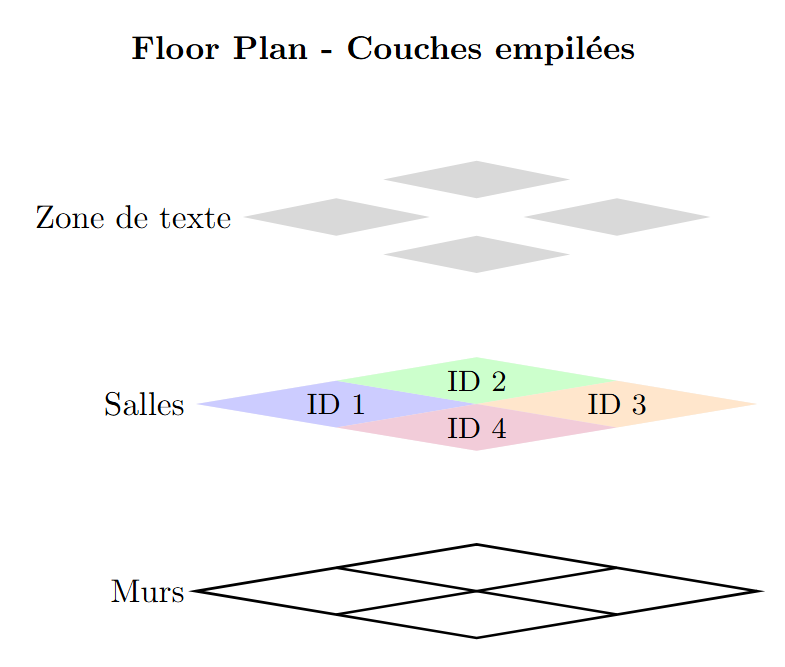
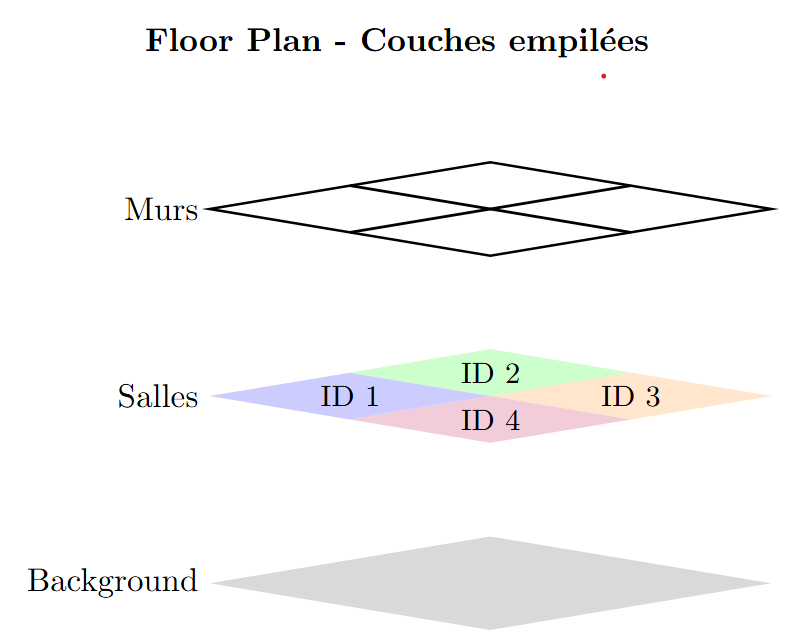
Debug

diff --git a/Pages/plans.html b/Pages/plans.html
@@ -29,12 +29,11 @@
 <ul class="menu">
 
     <!-- RENDU FINAL -->
-    <li>
-        <h2>Rendu final</h2>
+    <li><h2>Résultat Attendu</h2>
         <div style="text-align:center;">
-            <img src="../images/floorplan_example.png" alt="Schéma floorplan"
-                 style="max-width: 60%; height: auto;">
-            <p>Plan interactif montrant les températures actuelles d’un étage</p>
+            <img src="../images/plan_inkscape.png" alt="Schéma floorplan"
+                    style="max-width: 70%; height: auto;">
+            <p>Structure du plan (Les couches inférieur doivent être créer en première)</p>
         </div>
     </li>
 
@@ -71,7 +70,7 @@
 
             <div style="text-align:center;">
                 <img src="../images/schema_floorplan.png" alt="Exemple floorplan"
-                     style="max-width: 70%; height: auto;">
+                     style="max-width: 60%; height: auto;">
                 <p>Structure du plan (Les couches inférieur doivent être créer en première)</p>
             </div>
 
@@ -95,13 +94,17 @@
                 ⚠ Attention : bien définir les <strong>ID</strong> et pas seulement les <strong>tags</strong>.
             </div>
 
-            <div style="text-align:center;">
-                <img src="../images/example id.jpeg" alt="Schéma floorplan"
-                     style="max-width: 70%; height: auto;">
+                   <div style="display: flex; gap: 20px; align-items: flex-start;">
+        <div style="flex: 1; text-align: center;">
+            <img src="../images/example id.jpeg" alt="Schéma floorplan"
+                     style="max-width: 60%; height: auto;">
                 <p>Exemple d’identification</p>
-            </div>
+        </div>
+
+        <hr>
 
         </div>
+
     </li>
 
     <!-- HOME ASSISTANT -->
@@ -113,61 +116,37 @@
             <li><strong>1.</strong> Préparer ton fichier SVG (avec IDs)</li>
 
             <li><strong>2.</strong> Uploader dans :
-                <code>/config/www/NomDuBatiment/floorplan.svg</code>
+                <code>/config/www/floorplan/NomDuBatiment</code>
             </li>
 
-            <li><strong>3.</strong> Accès via :
-                <code>/local/NomDuBatiment/floorplan.svg</code>
+            <li><strong>3.</strong> Vérifier que le fichier plan.yaml est dans le dossier
+                <code>/config/www/floorplan/NomDuBatiment</code>
             </li>
 
-            <li><strong>4.</strong> ⚠ Ne PAS utiliser la carte Image</li>
-
-            <li><strong>5.</strong> Utiliser une carte custom :
-                <code>canvas-animated-card</code> ou <code>floorplan-card</code>
-            </li>
+            
         </ul>
 
-        <p><strong>Exemple avec canvas-animated-card :</strong></p>
-
-        <pre><code>
-                type: custom:canvas-animated-card
-                image: /local/NomDuBatiment/floorplan.svg
-        </code></pre>
-
-        <div class="warning">
-            ⚠ La carte Image classique ne permet pas d’exploiter les IDs du SVG.
-            Pour un floorplan interactif, il faut utiliser une carte personnalisée.
-        </div>
-
-        <div style="text-align:center;">
-            <img src="../images/en_cours.jpg" alt="Rendu Home Assistant"
-                 style="max-width: 70%; height: auto;">
-            <p>Rendu dans Home Assistant</p>
-        </div>
 
     </div>
 </li>
 
-    <!-- CANVAS CARD -->
-    <li>
-        <h2>Installation de canvas-animated-card</h2>
-        <div id="canvas" class="section">
+<li>
+     <h2>Résultat final dans Home Assistant</h2>
+     <p>
+         Une fois les capteurs connectés, les salles se coloreront automatiquement et les températures apparaîtront. 
+     </p>
+        <div id="Résultat" class="section">
 
-            <ul>
-                <li>Créer le dossier : <code>/config/www</code></li>
-                <li>Ajouter le fichier : <code>/config/www/canvas-animated-card.js</code></li>
-                <li>Ajouter la ressource : <code>/local/canvas-animated-card.js</code> (type : JavaScript Module)</li>
-                <li>Créer un dashboard dans Home Assistant</li>
-                <li>Ajouter une carte → Manual</li>
-                <li>Coller ce code YAML :</li>
-            </ul>
-
-            <pre><code>
-            type: "custom:canvas-animated-card"
-            </code></pre>
-
+        <div style="display: flex; gap: 20px; align-items: flex-start;">
+        <div style="flex: 1; text-align: center;">
+            <img src="../images/plan_inkscape.png" alt="Suivi temporel" 
+                style="max-width: 80%; height: auto; object-fit: contain;">
+            <p>Plan complet</p>
         </div>
-    </li>
+        </div>
+    </div>
+
+</li>
 
 </ul>
 

diff --git a/Pages/capteurs.html b/Pages/capteurs.html
@@ -78,7 +78,7 @@ Dans cette section, les deux approches seront abordées. À noter qu’il existe
 
   <p><strong>Intérêt de OWServer :</strong></p>
   <p>
-    OWServer (faisant partie de :contentReference[oaicite:1]{index=1}) permet de centraliser l'accès aux capteurs One-Wire.
+    OWServer permet de centraliser l'accès aux capteurs One-Wire.
     Il agit comme un serveur qui expose les capteurs (température, humidité, etc.) via le réseau ou en local.
     Cela permet à plusieurs applications ou machines d'accéder aux capteurs sans connexion directe au bus 1-Wire.
   </p>
@@ -99,10 +99,10 @@ Dans cette section, les deux approches seront abordées. À noter qu’il existe
     <p>Ajouter ou modifier les lignes suivantes :</p>
 
     <div class="command">
-      !server : server: localhost:4304<br>
-      server: w1<br>
+      <s>server: FAKE = DS18S20,DS2405</s> -> server: w1<br>
+      ###################### OWSERVER ######################<br>
       server: port = localhost:4304<br>
-      server: address = 0.0.0.0
+      server: adress = 0.0.0.0
     </div>
 
     <p>Redémarrer le serveur :</p>
@@ -115,6 +115,20 @@ Dans cette section, les deux approches seront abordées. À noter qu’il existe
       sudo systemctl status owserver
     </div>
 
+    <p>
+        Modifier ensuite le fichier de configuration :
+        </p>
+
+        <div class="command">
+sudo nano /boot/firmware/config.txt
+        </div>
+
+        <p>Ajouter la ligne suivante à la fin du fichier :</p>
+
+        <div class="command">
+dtoverlay=w1-gpio
+        </div>
+
     <p>Lister les capteurs détectés :</p>
     <div class="command">
       ls /sys/bus/w1/devices/
@@ -122,45 +136,7 @@ Dans cette section, les deux approches seront abordées. À noter qu’il existe
 
   </div>
 </li>
-    <li><h2>Activation et vérification du protocole 1-Wire sur Raspberry Pi</h2>
-
-    <div id="Capteur_to_Pi">
-
-        <p><strong>Vérifier que le module est actif :</strong></p>
-
-        <div class="command">
-lsmod | grep w1
-        </div>
-
-        <p>
-        Si rien ne s’affiche, modifier le fichier de configuration :
-        </p>
-
-        <div class="command">
-sudo nano /boot/firmaware/config.txt
-        </div>
-
-        <p>Ajouter la ligne suivante :</p>
-
-        <div class="command">
-dtoverlay=w1-gpio
-        </div>
-
-        <p>Redémarrer le Raspberry Pi :</p>
-
-        <div class="command">
-sudo reboot
-        </div>
-
-        <p>Lister les capteurs détectés :</p>
-
-        <div class="command">
-cd /sys/bus/w1/devices/
-ls
-        </div>
-
-    </div>
-    </li>
+    
     <li><h2>Ajout d'un capteur 1-Wire sur Raspberry Pi dans Home Assistant</h2>
 
     <div id="Capteur_to_Pi_ha">
@@ -231,6 +207,11 @@ Flash en 3 étapes :
 <button type="button" onclick="generateDebug()">Télécharger debug.yaml</button>
 
 </div>
+<p>Le fichier debug.yaml sert à afficher les adresses des capteurs lorsque l'on en branche plusieurs sur un esp32. Pour lancer le fichier entrez la commande suivante :</p>
+    <div class="command">
+        esphome run debug.yaml
+    </div>
+
 </div>
 
 <!-- FLASH -->
@@ -357,28 +338,10 @@ Flash en 3 étapes :
             <p>Recherche de l'IP dans les logs</p>
         </div>
         </div>
-
-        <h4>Étape 3 : Vérification</h4>
-
-        <p>
-        Vérifiez que les entités apparaissent correctement dans le tableau de bord.
-        </p>
-
-        <div style="display: flex; gap: 20px; align-items: flex-start;">
-        <div style="flex: 1; text-align: center;">
-            <img src="../images/en_cours.jpg" alt="1_wire" 
-                style="max-width: 60%; height: auto; object-fit: contain;">
-            <p>ESP32 Intégréer à Home Assistant</p>
-
-        <div class="command">
-api:
-        </div>
-
     </div>
     </li>
 </ul>
 </div>
-
     <footer class="footer">
         <div class="imagebandeau" href=""><img src="../images/Logo_Centrale_Lyon_Rouge.png" alt=""></div>
         <div class="cours"><div class="textefooter">Projet réalisé dans le cadre du cours</div><div class="textefooter">MSO_INFO_3_8 Projet Informatique</div></div>

diff --git a/config.js b/config.js
@@ -92,7 +92,7 @@ function addSensor() {
         <input class="sensorname" value="temperature_${sensorCount}">
 
         <label>GPIO</label>
-         <select class="gpio">
+         <select class="gpio_sensor">
             <option>GPIO0</option>
             <option>GPIO1</option>
             <option>GPIO2</option>
@@ -208,6 +208,7 @@ function generateConfig() {
         pins.add(gpio.value);
     });
 
+
     let oneWire = "";
     pins.forEach(pin => {
         oneWire += `
@@ -215,7 +216,19 @@ function generateConfig() {
               pin: ${pin}`;
     });
 
+    let generate=true;
 
+    document.querySelectorAll("#sensors .sensor-block").forEach(sensor => {
+    const address = sensor.querySelector(".address").value;
+
+    if (!address && generate){
+        generate=false;
+         alert("Remplir une adresse pour chaque capteur (pour connaître l'adresse à remplir, utilisé le fichier debug)");
+     return;
+    }
+        
+    });
+    if (generate==false) return;
 
 
     let sensorsYaml = "";
@@ -224,9 +237,6 @@ function generateConfig() {
 
         const sensorName = sensor.querySelector(".sensorname").value;
         const address = sensor.querySelector(".address").value;
-        const gpio = sensor.querySelector(".address").value;
-
-    if (!address) return;
 
         
         sensorsYaml += `

diff --git a/index.html b/index.html
@@ -41,12 +41,12 @@
 
         <div style="display: flex; gap: 20px; align-items: flex-start;">
         <div style="flex: 1; text-align: center;">
-            <img src="images/en_cours.jpg" alt="Visualisation spatiale" 
+            <img src="images/plan_resultat.png" alt="Visualisation spatiale" 
                 style="max-width: 70%; height: auto; object-fit: contain;">
             <p>Figure 1 : Affichage des température dans chaque salle d'un batiment</p>
         </div>
         <div style="flex: 1; text-align: center;">
-            <img src="images/en_cours.jpg" alt="Suivi temporel" 
+            <img src="images/graphe.png" alt="Suivi temporel" 
                 style="max-width: 70%; height: auto; object-fit: contain;">
             <p>Figure 2 : Evolution de la température dans une salle</p>
         </div>

diff --git a/Pages/requirements.html b/Pages/requirements.html
@@ -109,6 +109,21 @@
                 </div>
             </li>
 
+           <li class="toggle" onclick="showSection('inkscape')">
+                ▶ Inkscape pour créer les plans (Recommandé)
+
+            <div id="inkscape" class="section-content hidden">
+                
+
+                <a class="black" 
+                href="https://inkscape.org/release/" 
+                target="_blank">
+                    Télécharger Inkscape
+                </a>
+    </div>
+            </li>
+
+
         </ul>
 
     </div>

diff --git a/Pages/raspberry.html b/Pages/raspberry.html
@@ -99,20 +99,6 @@ sudo nmcli device wifi connect "NOM_DU_RESEAU" password "MOT_DE_PASSE"
                 </div>
 </li>
 
-
-<div class="command">
-nmcli device wifi list
-</div>
-
-<p>
-Se connecter à un réseau :
-</p>
-
-<div class="command">
-sudo nmcli device wifi connect "NOM_DU_RESEAU" password "MOT_DE_PASSE"
-</div>
-
-                </div>
 </li>
 
     <footer class="footer">
